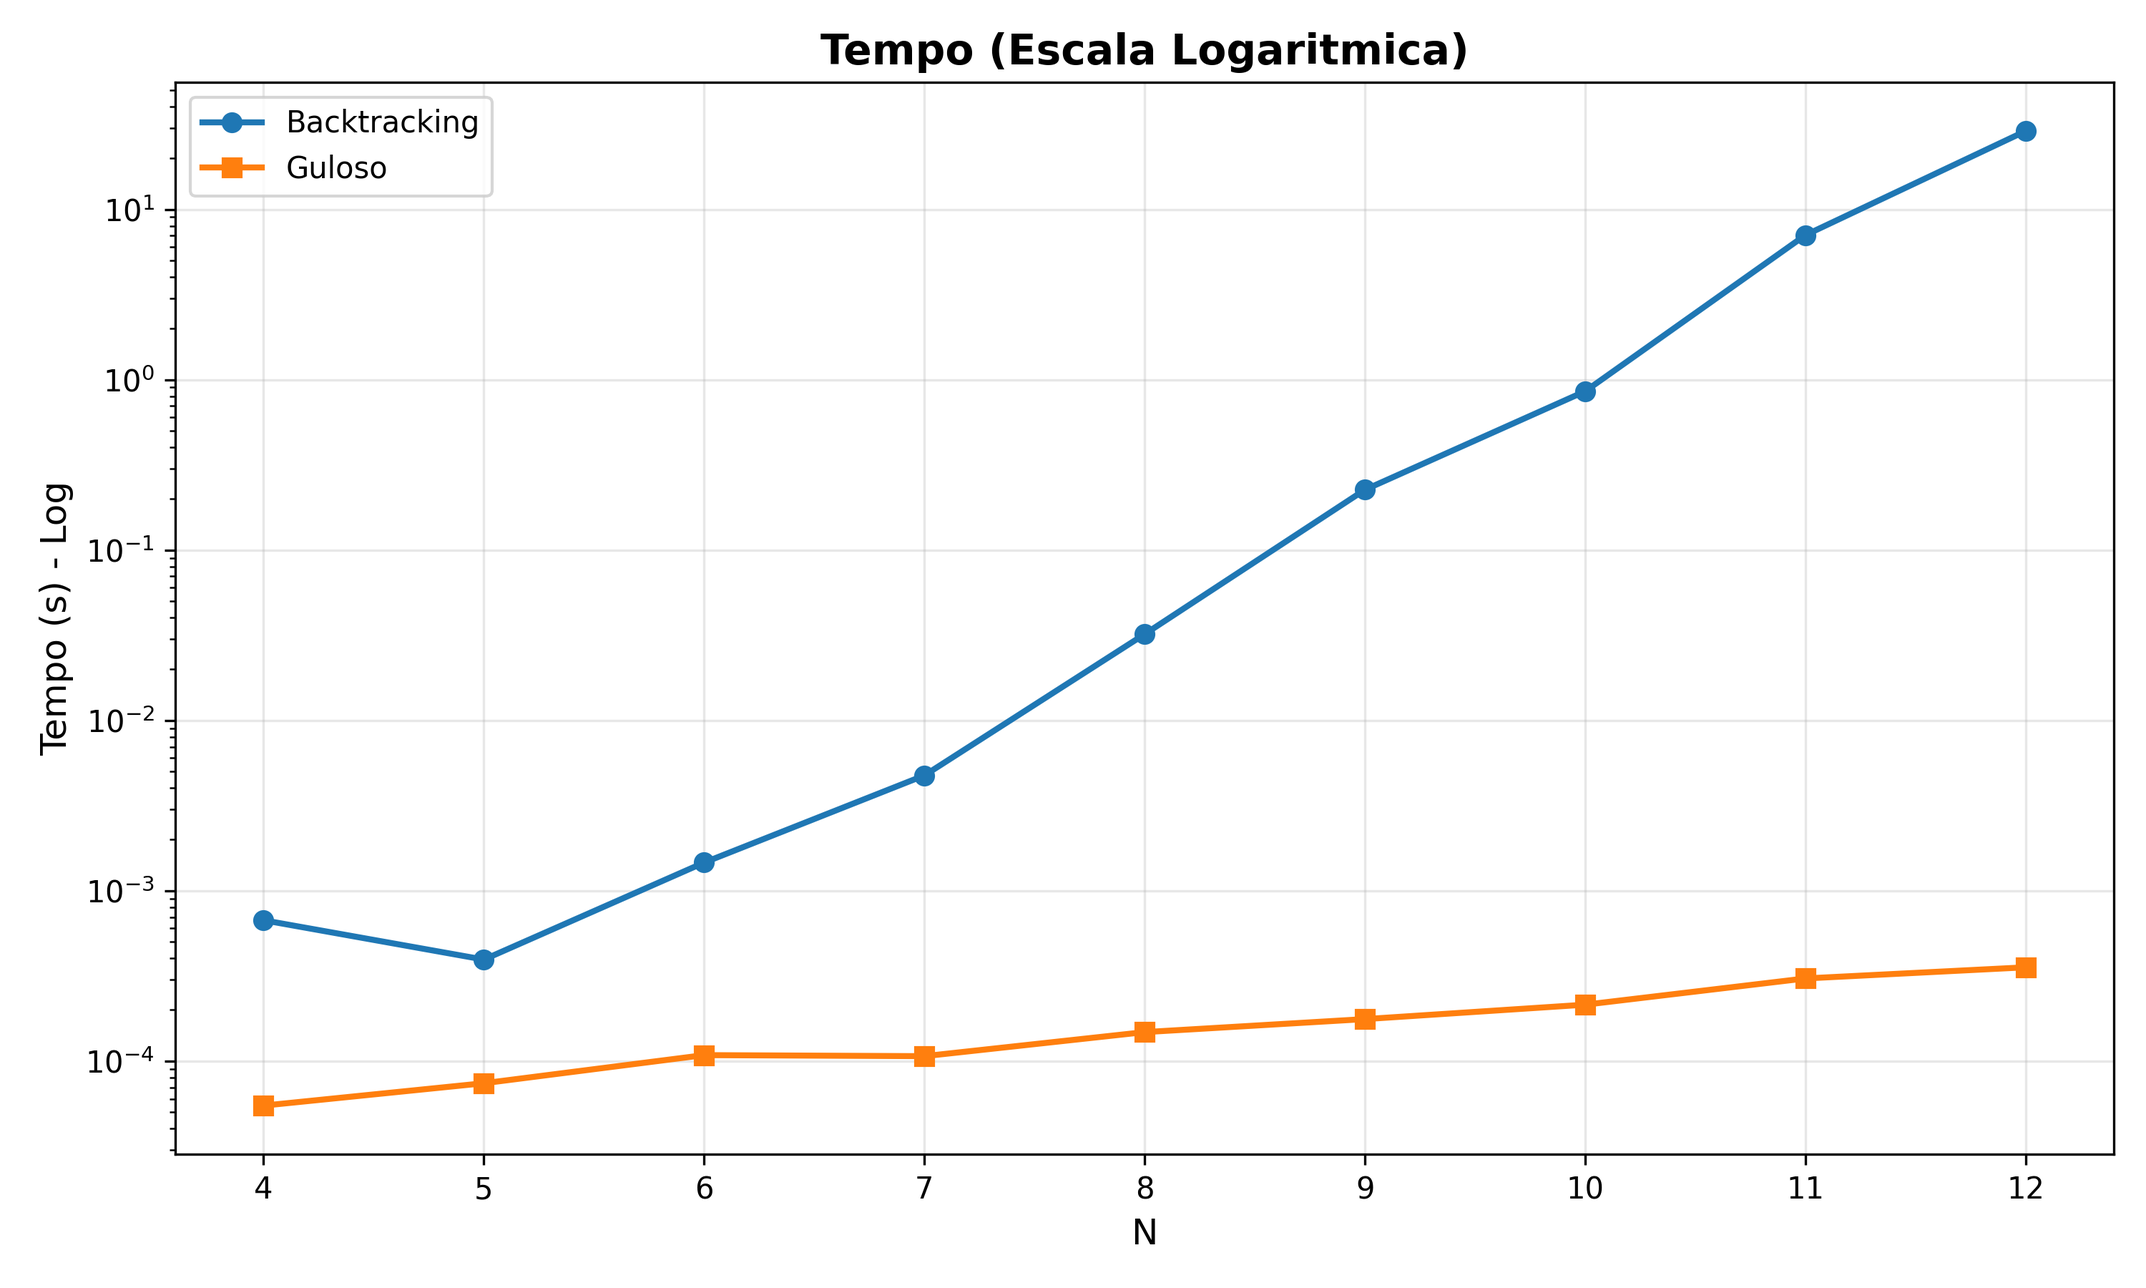
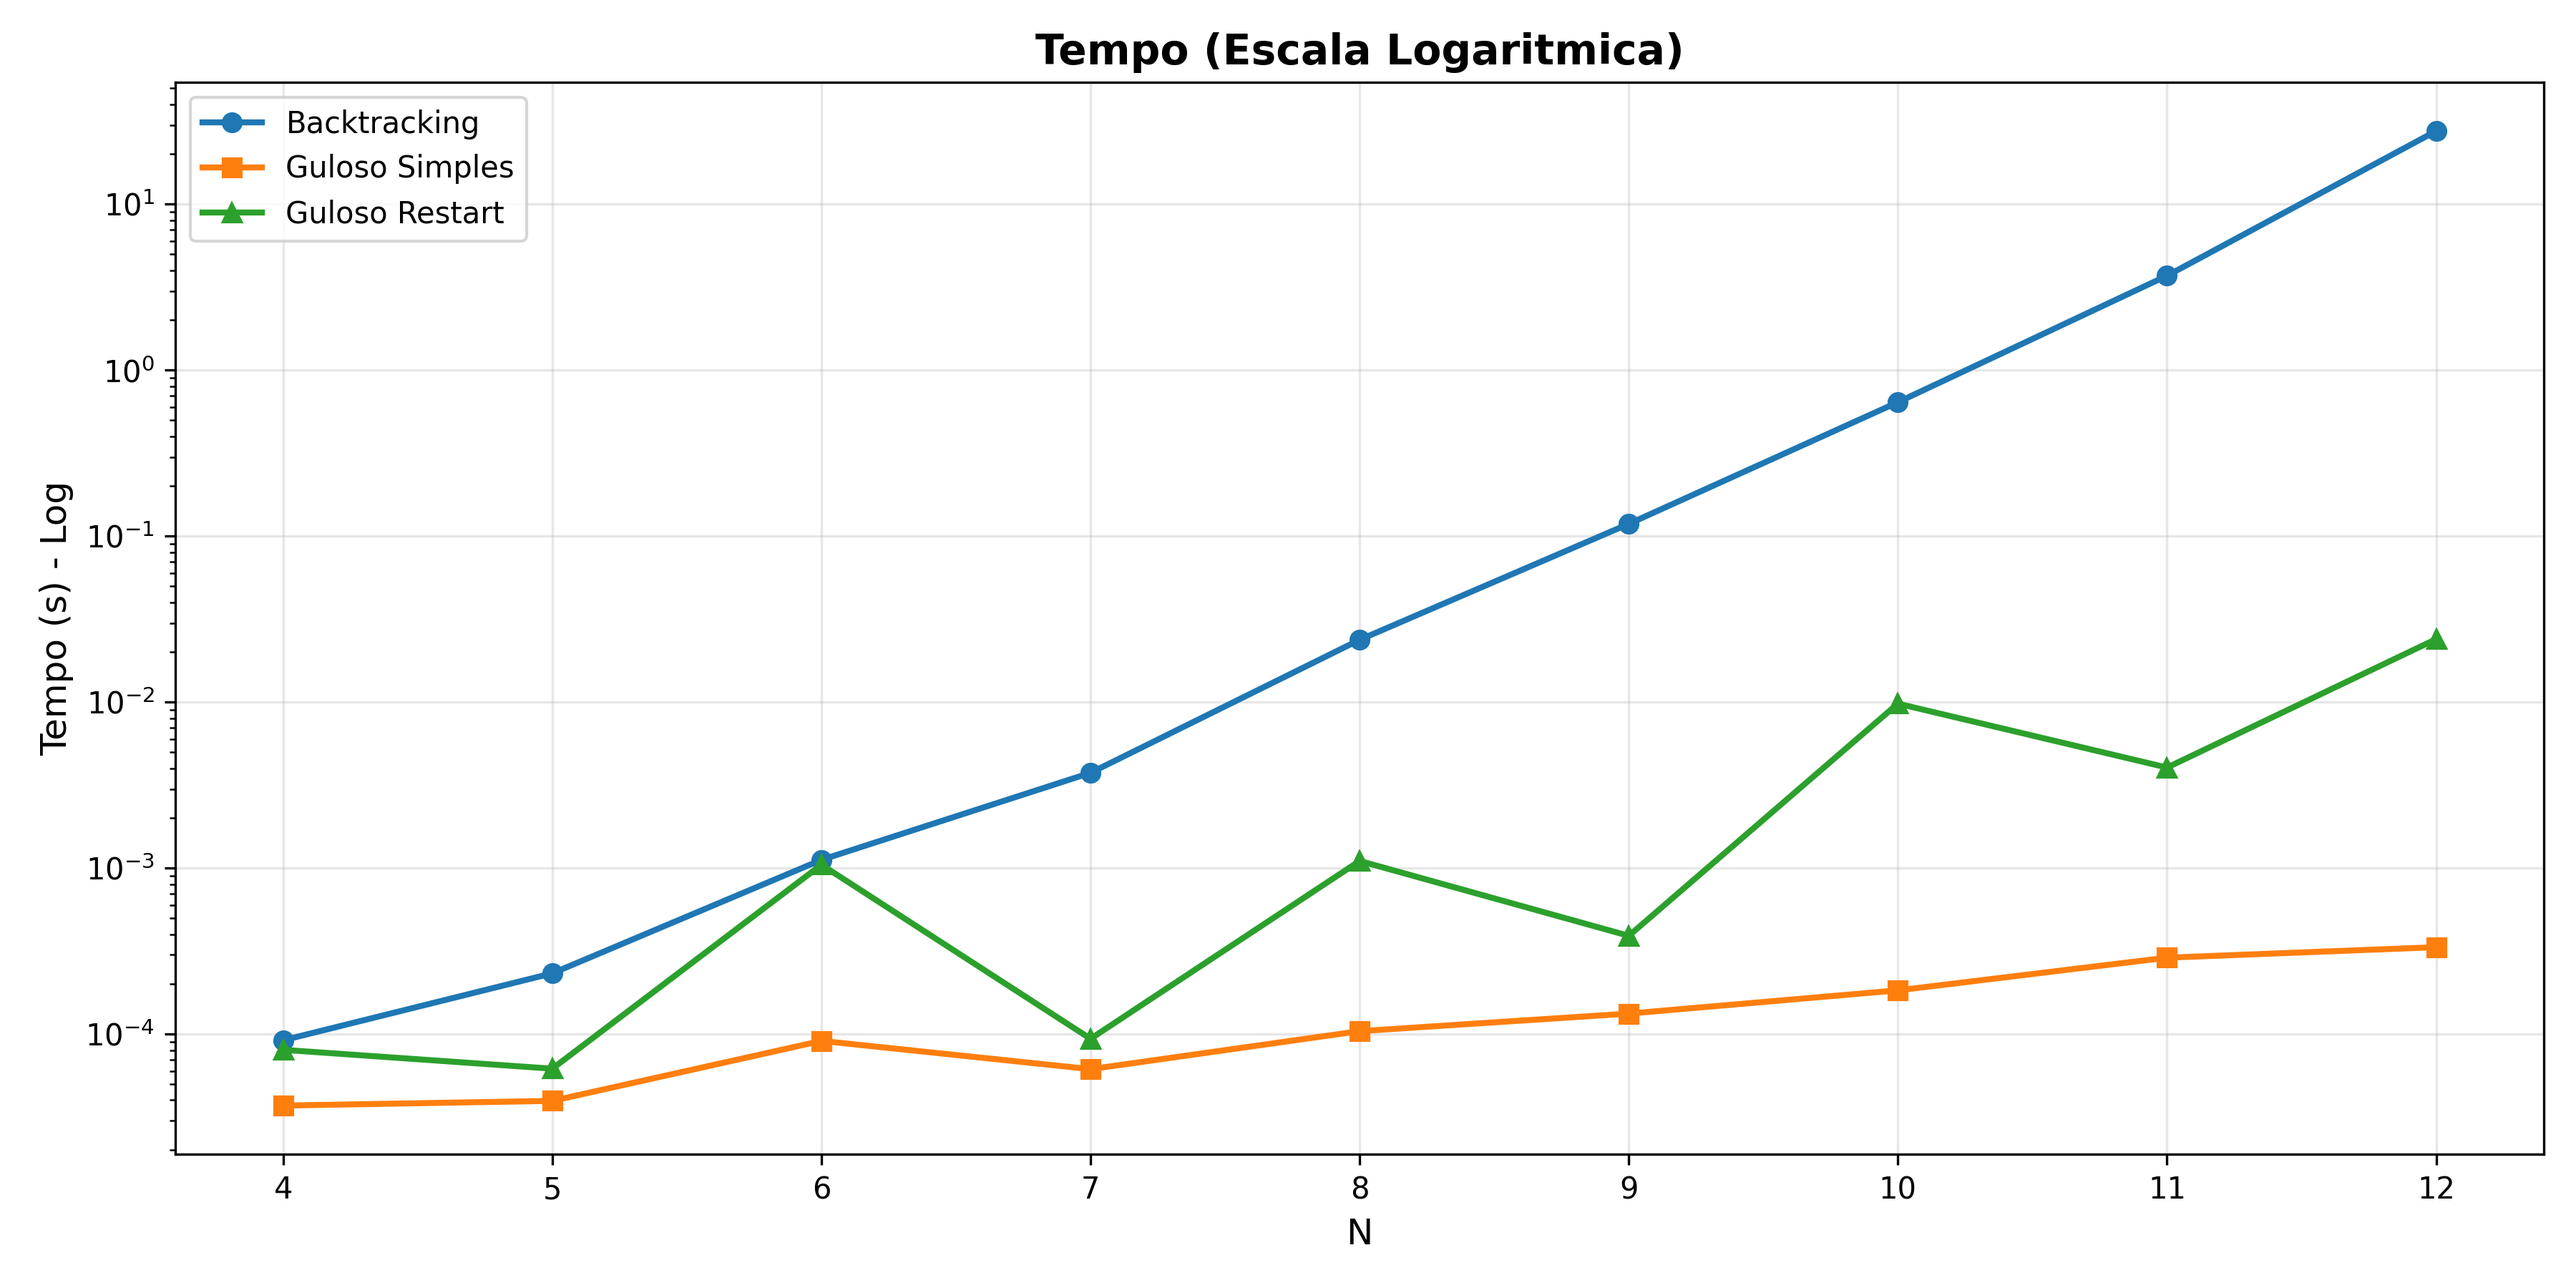
ta quase ok

diff --git a/Trabalho 3/resul_salvos/plotar_graficos.py b/Trabalho 3/resul_salvos/plotar_graficos.py
@@ -13,9 +13,10 @@ def carregar_dados():
     return pd.read_csv(RESULT_FILE)
 
 def plotar_tempo(df):
-    plt.figure(figsize=(10, 6))
+    plt.figure(figsize=(12, 6))
     plt.plot(df['N'], df['Tempo BT (s)'], marker='o', linewidth=2, label='Backtracking')
-    plt.plot(df['N'], df['Tempo Guloso (s)'], marker='s', linewidth=2, label='Guloso')
+    plt.plot(df['N'], df['Tempo Guloso Simples (s)'], marker='s', linewidth=2, label='Guloso Simples')
+    plt.plot(df['N'], df['Tempo Guloso Restart (s)'], marker='^', linewidth=2, label='Guloso Restart')
     plt.xlabel('N', fontsize=12)
     plt.ylabel('Tempo (s)', fontsize=12)
     plt.title('Comparacao de Tempo', fontsize=14, fontweight='bold')
@@ -27,9 +28,10 @@ def plotar_tempo(df):
     plt.close()
 
 def plotar_memoria(df):
-    plt.figure(figsize=(10, 6))
+    plt.figure(figsize=(12, 6))
     plt.plot(df['N'], df['Mem BT (MB)'], marker='o', linewidth=2, label='Backtracking')
-    plt.plot(df['N'], df['Mem Guloso (MB)'], marker='s', linewidth=2, label='Guloso')
+    plt.plot(df['N'], df['Mem Guloso Simples (MB)'], marker='s', linewidth=2, label='Guloso Simples')
+    plt.plot(df['N'], df['Mem Guloso Restart (MB)'], marker='^', linewidth=2, label='Guloso Restart')
     plt.xlabel('N', fontsize=12)
     plt.ylabel('Memoria (MB)', fontsize=12)
     plt.title('Comparacao de Memoria', fontsize=14, fontweight='bold')
@@ -53,9 +55,10 @@ def plotar_solucoes(df):
     plt.close()
 
 def plotar_tempo_log(df):
-    plt.figure(figsize=(10, 6))
+    plt.figure(figsize=(12, 6))
     plt.semilogy(df['N'], df['Tempo BT (s)'], marker='o', linewidth=2, label='Backtracking')
-    plt.semilogy(df['N'], df['Tempo Guloso (s)'], marker='s', linewidth=2, label='Guloso')
+    plt.semilogy(df['N'], df['Tempo Guloso Simples (s)'], marker='s', linewidth=2, label='Guloso Simples')
+    plt.semilogy(df['N'], df['Tempo Guloso Restart (s)'], marker='^', linewidth=2, label='Guloso Restart')
     plt.xlabel('N', fontsize=12)
     plt.ylabel('Tempo (s) - Log', fontsize=12)
     plt.title('Tempo (Escala Logaritmica)', fontsize=14, fontweight='bold')
@@ -66,30 +69,97 @@ def plotar_tempo_log(df):
     print("Grafico '04_tempo_log.png' salvo")
     plt.close()
 
-def plotar_sucesso_guloso(df):
-    # Verifica qual coluna existe no CSV
-    col_valido = None
-    for col in df.columns:
-        if 'Valido' in col or 'valido' in col.lower():
-            col_valido = col
-            break
+def plotar_sucesso_gulosos(df):
+    df['Sucesso Simples'] = df['Guloso Simples Valido'].apply(lambda x: 100 if x else 0)
+    df['Sucesso Restart'] = df['Guloso Restart Valido'].apply(lambda x: 100 if x else 0)
     
-    if col_valido:
-        df['Sucesso'] = df[col_valido].apply(lambda x: 100 if str(x).lower() == 'sim' else 0)
-    else:
-        # Se não encontrar, assume todos válidos
-        df['Sucesso'] = 100
+    x = range(len(df))
+    largura = 0.35
     
-    plt.figure(figsize=(10, 6))
-    plt.bar(df['N'], df['Sucesso'], color='orange', alpha=0.7, edgecolor='black')
+    plt.figure(figsize=(12, 6))
+    plt.bar([i - largura/2 for i in x], df['Sucesso Simples'], largura, 
+            label='Guloso Simples', alpha=0.8, color='orange', edgecolor='black')
+    plt.bar([i + largura/2 for i in x], df['Sucesso Restart'], largura, 
+            label='Guloso Restart', alpha=0.8, color='green', edgecolor='black')
+    
     plt.xlabel('N', fontsize=12)
     plt.ylabel('Taxa de Sucesso (%)', fontsize=12)
-    plt.title('Taxa de Sucesso do Algoritmo Guloso', fontsize=14, fontweight='bold')
+    plt.title('Taxa de Sucesso dos Algoritmos Gulosos', fontsize=14, fontweight='bold')
+    plt.xticks(x, df['N'])
     plt.ylim(0, 110)
+    plt.legend()
     plt.grid(True, alpha=0.3, axis='y')
     plt.tight_layout()
-    plt.savefig(os.path.join(GRAFICOS_DIR, "05_sucesso_guloso.png"), dpi=300)
-    print("Grafico '05_sucesso_guloso.png' salvo")
+    plt.savefig(os.path.join(GRAFICOS_DIR, "05_sucesso_gulosos.png"), dpi=300)
+    print("Grafico '05_sucesso_gulosos.png' salvo")
+    plt.close()
+
+def plotar_comparacao_gulosos(df):
+    plt.figure(figsize=(12, 6))
+    plt.plot(df['N'], df['Tempo Guloso Simples (s)'], marker='s', linewidth=2, label='Guloso Simples')
+    plt.plot(df['N'], df['Tempo Guloso Restart (s)'], marker='^', linewidth=2, label='Guloso Restart')
+    plt.xlabel('N', fontsize=12)
+    plt.ylabel('Tempo (s)', fontsize=12)
+    plt.title('Comparacao entre Gulosos', fontsize=14, fontweight='bold')
+    plt.legend()
+    plt.grid(True, alpha=0.3)
+    plt.tight_layout()
+    plt.savefig(os.path.join(GRAFICOS_DIR, "06_comparacao_gulosos.png"), dpi=300)
+    print("Grafico '06_comparacao_gulosos.png' salvo")
+    plt.close()
+
+def plotar_tabela(df):
+    fig, ax = plt.subplots(figsize=(16, 10))
+    ax.axis('tight')
+    ax.axis('off')
+    
+    # Seleciona apenas colunas sem sucesso
+    df_display = df[['N', 'Num Solucoes BT', 'Tempo BT (s)', 'Mem BT (MB)', 
+                     'Tempo Guloso Simples (s)', 'Mem Guloso Simples (MB)',
+                     'Tempo Guloso Restart (s)', 'Mem Guloso Restart (MB)']].copy()
+    
+    # Renomeia colunas
+    df_display = df_display.rename(columns={
+        'N': 'N',
+        'Num Solucoes BT': 'Solucoes',
+        'Tempo BT (s)': 'T_BT (s)',
+        'Mem BT (MB)': 'M_BT (MB)',
+        'Tempo Guloso Simples (s)': 'T_Simples (s)',
+        'Mem Guloso Simples (MB)': 'M_Simples (MB)',
+        'Tempo Guloso Restart (s)': 'T_Restart (s)',
+        'Mem Guloso Restart (MB)': 'M_Restart (MB)'
+    })
+    
+    # Formata os dados
+    df_display['T_BT (s)'] = df_display['T_BT (s)'].apply(lambda x: f'{x:.6f}')
+    df_display['T_Simples (s)'] = df_display['T_Simples (s)'].apply(lambda x: f'{x:.6f}')
+    df_display['T_Restart (s)'] = df_display['T_Restart (s)'].apply(lambda x: f'{x:.6f}')
+    df_display['M_BT (MB)'] = df_display['M_BT (MB)'].apply(lambda x: f'{x:.4f}')
+    df_display['M_Simples (MB)'] = df_display['M_Simples (MB)'].apply(lambda x: f'{x:.4f}')
+    df_display['M_Restart (MB)'] = df_display['M_Restart (MB)'].apply(lambda x: f'{x:.4f}')
+    
+    table = ax.table(cellText=df_display.values, colLabels=df_display.columns,
+                     cellLoc='center', loc='center')
+    
+    table.auto_set_font_size(False)
+    table.set_fontsize(10)
+    table.scale(1, 2.5)
+    
+    # Estiliza header
+    for i in range(len(df_display.columns)):
+        table[(0, i)].set_facecolor('#4CAF50')
+        table[(0, i)].set_text_props(weight='bold', color='white')
+    
+    # Estiliza linhas alternadas
+    for i in range(1, len(df_display) + 1):
+        for j in range(len(df_display.columns)):
+            if i % 2 == 0:
+                table[(i, j)].set_facecolor('#f0f0f0')
+    
+    plt.title('Tabela de Resultados - N Rainhas', fontsize=18, fontweight='bold', pad=20)
+    plt.tight_layout()
+    plt.savefig(os.path.join(GRAFICOS_DIR, "07_tabela_resultados.png"), dpi=300, bbox_inches='tight')
+    print("Grafico '07_tabela_resultados.png' salvo")
     plt.close()
 
 def main():
@@ -101,7 +171,9 @@ def main():
     plotar_memoria(df)
     plotar_solucoes(df)
     plotar_tempo_log(df)
-    plotar_sucesso_guloso(df)
+    plotar_sucesso_gulosos(df)
+    plotar_comparacao_gulosos(df)
+    plotar_tabela(df)
     
     print("\n=== Graficos gerados ===")
 

diff --git a/Trabalho 3/resultados/teste_BT_vs_Guloso.py b/Trabalho 3/resultados/teste_BT_vs_Guloso.py
@@ -24,12 +24,26 @@ def medir_backtracking(n):
     
     return len(solucoes), tempo, pico / (1024 ** 2)
 
-def medir_guloso(n):
+def medir_guloso_simples(n):
     gc.collect()
     tracemalloc.start()
     inicio = time.perf_counter()
     
-    tabuleiro = n_rainhas_guloso.n_rainhas_guloso(n)
+    tabuleiro = n_rainhas_guloso.n_rainhas_guloso_simples(n)
+    valido = n_rainhas_guloso.eh_valido(tabuleiro)
+    
+    tempo = time.perf_counter() - inicio
+    _, pico = tracemalloc.get_traced_memory()
+    tracemalloc.stop()
+    
+    return valido, tempo, pico / (1024 ** 2)
+
+def medir_guloso_com_restart(n):
+    gc.collect()
+    tracemalloc.start()
+    inicio = time.perf_counter()
+    
+    tabuleiro = n_rainhas_guloso.n_rainhas_guloso_com_restart(n)
     valido = n_rainhas_guloso.eh_valido(tabuleiro)
     
     tempo = time.perf_counter() - inicio
@@ -42,36 +56,39 @@ def executar_testes():
     tamanhos = [4, 5, 6, 7, 8, 9, 10, 11, 12]
     resultados = []
     
-    print("=== Teste Backtracking vs Guloso ===\n")
+    print("=== Teste Backtracking vs Guloso Simples vs Guloso com Restart ===\n")
     
     for n in tamanhos:
         print(f"Testando n = {n}...")
         
         num_sol, tempo_bt, mem_bt = medir_backtracking(n)
-        valido, tempo_gl, mem_gl = medir_guloso(n)
-        
-        razao_tempo = tempo_bt / tempo_gl if tempo_gl > 0 else 0
+        valido_s, tempo_gs, mem_gs = medir_guloso_simples(n)
+        valido_r, tempo_gr, mem_gr = medir_guloso_com_restart(n)
         
         resultados.append({
             'N': n,
             'Num Solucoes BT': num_sol,
             'Tempo BT (s)': tempo_bt,
             'Mem BT (MB)': mem_bt,
-            'Tempo Guloso (s)': tempo_gl,
-            'Mem Guloso (MB)': mem_gl,
-            'Guloso Valido': valido,
-            'Razao Tempo (BT/Guloso)': razao_tempo
+            'Tempo Guloso Simples (s)': tempo_gs,
+            'Mem Guloso Simples (MB)': mem_gs,
+            'Guloso Simples Valido': valido_s,
+            'Tempo Guloso Restart (s)': tempo_gr,
+            'Mem Guloso Restart (MB)': mem_gr,
+            'Guloso Restart Valido': valido_r
         })
         
         print(f"  BT: {tempo_bt:.6f}s, {num_sol} solucoes")
-        print(f"  Guloso: {tempo_gl:.6f}s, valido={valido}\n")
+        print(f"  Guloso Simples: {tempo_gs:.6f}s, valido={valido_s}")
+        print(f"  Guloso Restart: {tempo_gr:.6f}s, valido={valido_r}\n")
     
     salvar_resultados(resultados)
 
 def salvar_resultados(resultados):
     with open(RESULT_FILE, 'w', newline='', encoding='utf-8') as f:
         campos = ['N', 'Num Solucoes BT', 'Tempo BT (s)', 'Mem BT (MB)', 
-                  'Tempo Guloso (s)', 'Mem Guloso (MB)', 'Guloso Valido', 'Razao Tempo (BT/Guloso)']
+                  'Tempo Guloso Simples (s)', 'Mem Guloso Simples (MB)', 'Guloso Simples Valido',
+                  'Tempo Guloso Restart (s)', 'Mem Guloso Restart (MB)', 'Guloso Restart Valido']
         writer = csv.DictWriter(f, fieldnames=campos)
         writer.writeheader()
         writer.writerows(resultados)

diff --git a/Trabalho 3/n_rainhas_guloso.py b/Trabalho 3/n_rainhas_guloso.py
@@ -1,31 +1,3 @@
-# def contar_conflitos(tabuleiro, linha, coluna):
-#     conflitos = 0
-#     for i in range(linha):
-#         if tabuleiro[i] == coluna or abs(tabuleiro[i] - coluna) == abs(i - linha):
-#             conflitos += 1
-#     return conflitos
-
-# def n_rainhas_guloso(n):
-#     tabuleiro = [-1] * n
-#     for linha in range(n):
-#         menor = float('inf')
-#         melhor = 0
-#         for coluna in range(n):
-#             conflitos = contar_conflitos(tabuleiro, linha, coluna)
-#             if conflitos < menor:
-#                 menor = conflitos
-#                 melhor = coluna
-#         tabuleiro[linha] = melhor
-#     return tabuleiro
-
-# def eh_valido(tabuleiro):
-#     n = len(tabuleiro)
-#     for i in range(n):
-#         for j in range(i + 1, n):
-#             if tabuleiro[i] == tabuleiro[j] or abs(tabuleiro[i] - tabuleiro[j]) == abs(i - j):
-#                 return False
-#     return True
-
 import random
 
 def contar_conflitos(tabuleiro, linha, coluna):
@@ -35,14 +7,26 @@ def contar_conflitos(tabuleiro, linha, coluna):
             conflitos += 1
     return conflitos
 
-def n_rainhas_guloso(n, max_tentativas=100):
+def n_rainhas_guloso_simples(n):
+    tabuleiro = [-1] * n
+    for linha in range(n):
+        menor = float('inf')
+        melhor = 0
+        for coluna in range(n):
+            conflitos = contar_conflitos(tabuleiro, linha, coluna)
+            if conflitos < menor:
+                menor = conflitos
+                melhor = coluna
+        tabuleiro[linha] = melhor
+    return tabuleiro
+
+def n_rainhas_guloso_com_restart(n, max_tentativas=100):
     for _ in range(max_tentativas):
         tabuleiro = [-1] * n
         for linha in range(n):
             candidatos = []
             menor = float('inf')
             
-            # Encontra todas colunas com menor conflito
             for coluna in range(n):
                 conflitos = contar_conflitos(tabuleiro, linha, coluna)
                 if conflitos < menor:
@@ -51,14 +35,11 @@ def n_rainhas_guloso(n, max_tentativas=100):
                 elif conflitos == menor:
                     candidatos.append(coluna)
             
-            # Escolhe aleatoriamente entre os melhores
             tabuleiro[linha] = random.choice(candidatos)
         
-        # Se achou solução válida, retorna
         if eh_valido(tabuleiro):
             return tabuleiro
     
-    # Se não achou após tentativas, retorna última tentativa
     return tabuleiro
 
 def eh_valido(tabuleiro):

diff --git a/Trabalho 3/main.py b/Trabalho 3/main.py
@@ -8,16 +8,21 @@ def pegar_entrada():
 def main():
     n = pegar_entrada()
     
-    print(f"\n=== Backtracking ===")
-    solucoes = n_rainhas_backtracking.n_rainhas_backtracking(n)
-    print(f"Numero de solucoes: {len(solucoes)}")
-    if solucoes:
-        print(f"Primeira solucao: {solucoes[0]}")
+    # print(f"\n=== Backtracking ===")
+    # solucoes = n_rainhas_backtracking.n_rainhas_backtracking(n)
+    # print(f"Numero de solucoes: {len(solucoes)}")
+    # if solucoes:
+    #     print(f"Primeira solucao: {solucoes[0]}")
     
-    print(f"\n=== Guloso ===")
-    tabuleiro = n_rainhas_guloso.n_rainhas_guloso(n)
-    print(f"Solucao: {tabuleiro}")
-    print(f"Valida: {n_rainhas_guloso.eh_valido(tabuleiro)}")
+    print(f"\n=== Guloso Simples ===")
+    tabuleiro_simples = n_rainhas_guloso.n_rainhas_guloso_simples(n)
+    print(f"Solucao: {tabuleiro_simples}")
+    print(f"Valida: {n_rainhas_guloso.eh_valido(tabuleiro_simples)}")
+    
+    print(f"\n=== Guloso com Restart ===")
+    tabuleiro_restart = n_rainhas_guloso.n_rainhas_guloso_com_restart(n)
+    print(f"Solucao: {tabuleiro_restart}")
+    print(f"Valida: {n_rainhas_guloso.eh_valido(tabuleiro_restart)}")
 
 if __name__ == "__main__":
     main()
